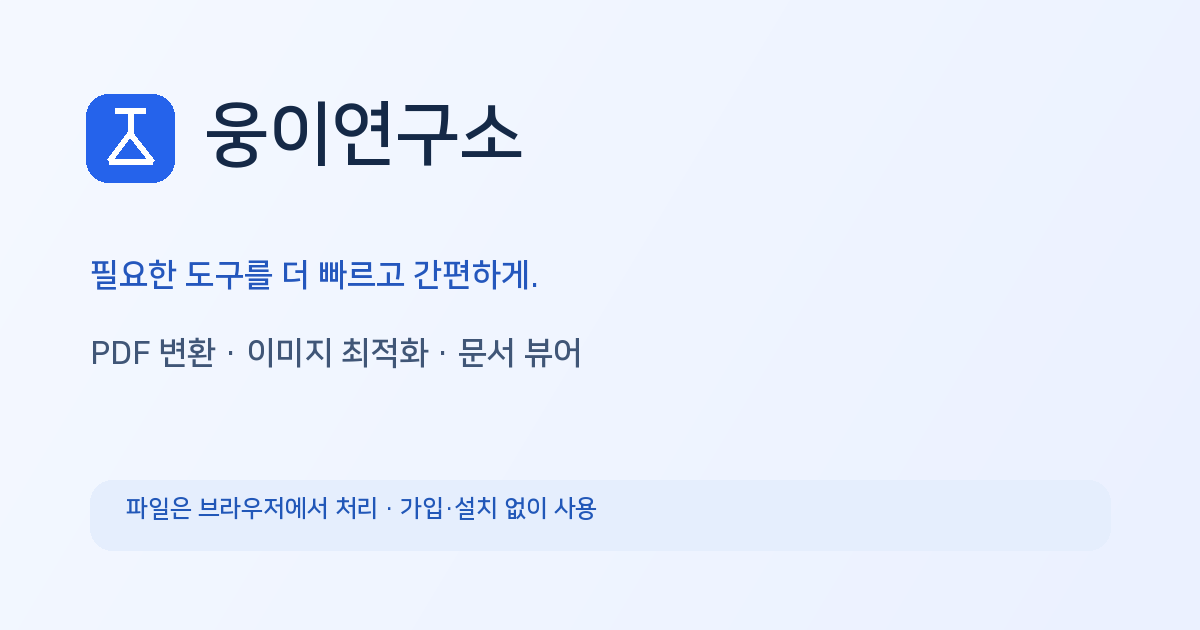
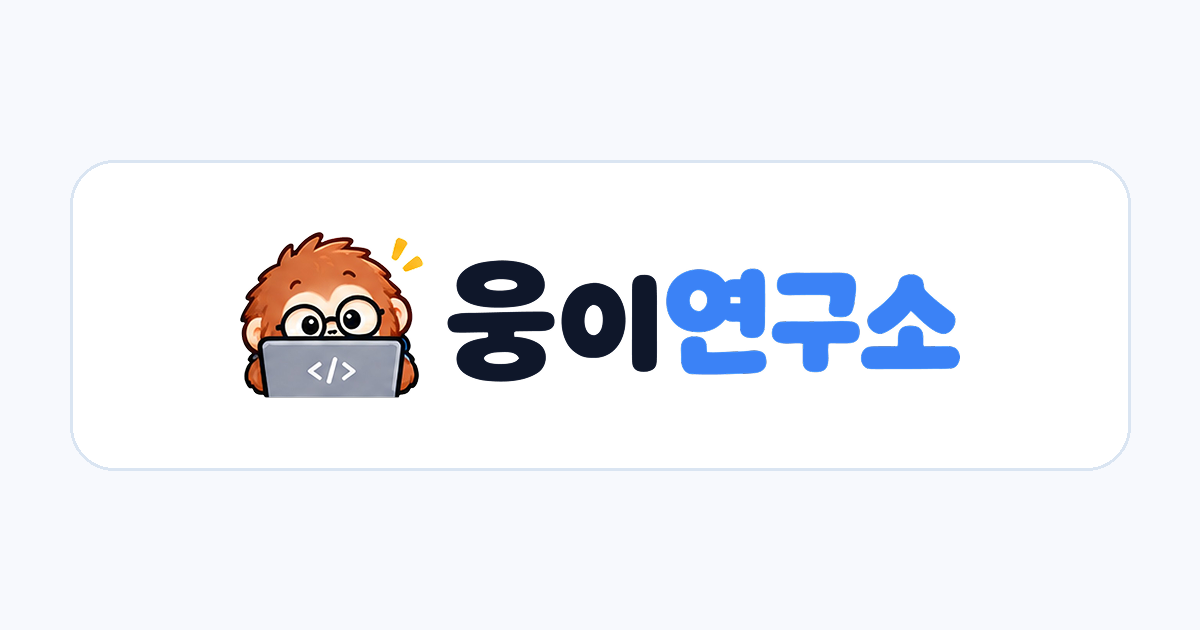
변경: 웅이연구소 로고와 공통 안내 페이지 및 검색 등록 준비

Changed region(s): [[0.0617, 0.3619, 0.8017, 0.6333], [0.0617, 0.1508, 0.4317, 0.3016], [0.0925, 0.7841, 0.4933, 0.8444]]

diff --git a/lib/guides.ts b/lib/guides.ts
@@ -9,6 +9,6 @@ export const guides:Guide[]=[
   {slug:"open-office-files",title:"Word 문서를 설치 없이 보는 방법",tool:"docx-viewer",overview:"문서 편집 프로그램이 없어도 DOCX의 본문과 기본 서식을 간단히 확인할 수 있습니다.",steps:["Word(DOCX) 뷰어에서 파일을 선택합니다.", "문단과 표, 이미지 배치를 스크롤하여 확인합니다.", "인쇄 또는 공유 전에 원본과 중요한 서식 차이가 있는지 검토합니다."],checks:["읽기 전용 화면이며 Word 문서를 직접 수정하는 기능은 제공하지 않습니다.", "특수 글꼴과 복잡한 표, 페이지 분할은 원본과 다르게 보일 수 있습니다."],troubleshooting:["문자가 깨지면 파일이 DOCX 형식인지 확인합니다.", "서식의 정확성이 중요하다면 Microsoft Word 등 원본 프로그램에서 최종 확인합니다."],tip:"읽기 전용 화면이며 Word 문서를 직접 수정하는 기능은 제공하지 않습니다."},
   {slug:"csv-korean-encoding",title:"CSV에서 한글이 깨질 때 해결하는 방법",tool:"csv-viewer",overview:"한글 CSV를 열었을 때 깨짐 문자가 보이는 경우 인코딩과 구분자를 구별해 해결합니다.",steps:["CSV 뷰어에서 파일을 추가합니다.", "한글이 깨지면 UTF-8과 CP949/EUC-KR 인코딩을 비교합니다.", "열이 합쳐지면 쉼표 또는 탭 등 구분자를 조정합니다."],checks:["전화번호나 제품 코드의 앞자리 0은 숫자 변환 시 손실될 수 있습니다.", "잘못된 인코딩으로 저장하면 원문을 복구하기 어려울 수 있으니 원본을 보존하세요."],troubleshooting:["모든 데이터가 한 열에 보이면 구분자를 먼저 확인합니다.", "엑셀에서 저장한 오래된 CSV라면 CP949 인코딩을 시도합니다."],tip:"전화번호나 제품 코드의 앞자리 0은 숫자 변환 시 손실될 수 있습니다."},
   {slug:"crop-photo",title:"이미지의 원하는 영역만 자르기",tool:"image-cropper",overview:"프로필 사진, 상세 페이지 썸네일처럼 특정 부분만 남기거나 화면 비율을 맞출 때 사용합니다.",steps:["이미지 자르기에 사진을 추가합니다.", "자유 영역 또는 1:1, 16:9 등 비율을 선택하고 영역을 조정합니다.", "미리보기에서 잘린 위치를 확인하고 파일로 저장합니다."],checks:["잘라낸 영역 밖의 픽셀은 결과에 포함되지 않습니다.", "너무 작은 영역을 크게 확대하면 흐려질 수 있습니다."],troubleshooting:["원하는 위치로 이동하지 않으면 확대 비율을 조정한 뒤 다시 드래그합니다.", "얼굴이 잘리지 않았는지 결과 미리보기를 확인합니다."],tip:"잘라낸 영역 밖의 픽셀은 결과에 포함되지 않습니다."},
-  {slug:"read-powerpoint",title:"PPTX 슬라이드 미리보는 방법",tool:"pptx-viewer",overview:"PowerPoint 프로그램이 설치되지 않았을 때 슬라이드 순서와 텍스트를 읽기 전용으로 살펴봅니다.",steps:["PowerPoint(PPTX) 뷰어에서 파일을 선택합니다.", "썸네일을 이용해 필요한 슬라이드를 찾습니다.", "차트·도형·폰트 등 중요한 요소는 원본 프로그램과 비교합니다."],checks:["애니메이션과 일부 SmartArt, 특수 효과는 표시되지 않거나 다르게 보일 수 있습니다.", "뷰어에서 확인한 화면이 PowerPoint의 인쇄 결과와 같다고 보장할 수 없습니다."],troubleshooting:["슬라이드 내용이 빠졌다면 원본 파일을 다시 확인합니다.", "PPTX 외 확장자는 지원되지 않을 수 있습니다."],tip:"애니메이션과 일부 SmartArt, 특수 효과는 표시되지 않거나 다르게 보일 수 있습니다."},
+  {slug:"read-powerpoint",title:"PPTX 슬라이드 미리보는 방법",tool:"pptx-viewer",overview:"PowerPoint 프로그램이 없어도 슬라이드 순서와 텍스트를 읽기 전용으로 살펴봅니다.",steps:["PowerPoint(PPTX) 뷰어에서 파일을 선택합니다.", "썸네일을 이용해 필요한 슬라이드를 찾습니다.", "차트·도형·폰트 등 중요한 요소는 원본 프로그램과 비교합니다."],checks:["애니메이션과 일부 SmartArt, 특수 효과는 표시되지 않거나 다르게 보일 수 있습니다.", "뷰어에서 확인한 화면이 PowerPoint의 인쇄 결과와 같다고 보장할 수 없습니다."],troubleshooting:["슬라이드 내용이 빠졌다면 원본 파일을 다시 확인합니다.", "PPTX 외 확장자는 지원되지 않을 수 있습니다."],tip:"애니메이션과 일부 SmartArt, 특수 효과는 표시되지 않거나 다르게 보일 수 있습니다."},
   {slug:"view-excel",title:"XLSX 파일과 수식 확인하기",tool:"xlsx-viewer",overview:"엑셀을 설치하지 않고 시트의 표와 저장된 계산값을 읽을 때 이용합니다.",steps:["Excel(XLSX) 뷰어에서 문서를 엽니다.", "시트를 전환하고 표의 셀과 수식을 확인합니다.", "계산 결과가 중요한 경우 원본 Excel에서 다시 계산합니다."],checks:["저장된 수식 결과가 최신 값과 다를 수 있습니다.", "매크로나 외부 데이터 연결은 실행하지 않습니다."],troubleshooting:["값이 비어 있거나 오래된 경우 원본 파일의 저장 상태를 확인합니다.", "복잡한 서식이 다르면 Excel에서 최종 검증합니다."],tip:"저장된 수식 결과가 최신 값과 다를 수 있습니다."},
 ];

diff --git a/app/(workspace)/privacy/page.tsx b/app/(workspace)/privacy/page.tsx
@@ -1,11 +1,14 @@
+import {SiteInfoBackButton} from "@/components/site-info-back-button";
+import {AppContentContainer} from "@/components/app-content-container";
 import Link from "next/link";
 export const metadata={title:"개인정보 처리방침",description:"웅이연구소 파일 처리, 브라우저 저장 데이터, 익명 사용량 집계, 쿠키와 서비스 운영 정보 안내"};
-export default function Page(){return <main className="content-page">
+export default function Page(){return <AppContentContainer as="main" className="content-page site-info-page">
+<SiteInfoBackButton/>
 <h1>개인정보 처리방침</h1><p>적용 대상: 웅이연구소(ung-lab.com). 이 문서는 현재 공개된 코드의 데이터 처리 방식을 설명하며, 광고 또는 분석 서비스가 추가되면 실제 운영 설정에 맞춰 갱신합니다.</p>
-<h2>파일 처리</h2><p>사용자가 선택한 이미지, PDF 및 문서는 브라우저 내부에서 처리하며, 해당 작업을 위해 서비스 API로 원본 파일을 전송하지 않습니다. 원본 파일의 백업과 보관은 이용자가 관리해야 합니다.</p>
+<h2>파일 처리</h2><p>사용자가 선택한 이미지, PDF 및 문서는 브라우저 내부에서 처리하며, 파일을 처리하려고 서비스 API로 원본 파일을 전송하지 않습니다. 원본 파일의 백업과 보관은 이용자가 직접 보관해야 합니다.</p>
 <h2>브라우저에 저장되는 정보</h2><p>즐겨찾기, 최근 사용한 도구, 채팅 화면 입력 기록은 브라우저 세션 저장소에 보관될 수 있습니다. 브라우저 탭이나 세션을 종료하거나 저장소를 삭제하면 해당 정보는 사라질 수 있습니다.</p>
 <h2>익명 사용량 집계</h2><p>인기 도구와 추천 질문 유형을 개선하기 위해 이용한 도구의 식별자와 집계 횟수를 Supabase 데이터베이스에 저장할 수 있습니다. 질문 원문이나 처리 대상 파일은 이 집계 API로 보내지 않습니다. 중복 집계 방지를 위해 HttpOnly SameSite=Lax 쿠키(ung-lab-visited-tools, ung-lab-counted-prompts)를 사용할 수 있습니다. 쿠키에는 도구 식별자만 포함됩니다.</p>
 <h2>외부 제공자와 기술적 접속 정보</h2><p>서비스 호스팅·보안 및 데이터베이스 제공자는 서비스 요청 처리 과정에서 IP 주소 등 통상적인 접속 정보를 취급할 수 있습니다. 이미지 배경 제거용 AI 모델 및 라이브러리 다운로드 과정에서도 외부 배포 서버와의 통신이 발생할 수 있습니다.</p>
 <h2>광고 및 동의</h2><p>현재 코드에서는 Google AdSense 광고 스크립트가 기본적으로 실행되지 않습니다. 추후 광고 기능을 활성화한다면 광고 제공자, 쿠키 사용, 지역별 동의 선택 및 거부 절차를 포함하도록 이 문서를 갱신할 예정입니다.</p>
 <h2>문의</h2><p>데이터 처리 관련 문의는 <Link href="/contact">문의 페이지</Link>를 이용하세요. 공개 GitHub 이슈에 민감한 정보나 원본 파일을 게시하지 마세요.</p>
-</main>}
+</AppContentContainer>}

diff --git a/app/layout.tsx b/app/layout.tsx
@@ -13,6 +13,25 @@ export const metadata: Metadata = {
  ...( /^ca-pub-\d{16}$/.test(process.env.ADSENSE_PUBLISHER_ID??"")
    ? {verification:{other:{"google-adsense-account":process.env.ADSENSE_PUBLISHER_ID!}}}
    : {} ),
+
+  icons: {
+    icon: [
+      {url: "/favicon.ico", sizes: "any"},
+      {url: "/favicon-32x32.png", type: "image/png", sizes: "32x32"},
+      {url: "/favicon-16x16.png", type: "image/png", sizes: "16x16"},
+    ],
+    shortcut: "/favicon.ico",
+    apple: [{url: "/apple-touch-icon.png", sizes: "180x180"}],
+  },
+  verification: {
+    google: process.env.GOOGLE_SITE_VERIFICATION?.trim() || undefined,
+    other: {
+      ...(process.env.NAVER_SITE_VERIFICATION?.trim()
+        ? {"naver-site-verification":process.env.NAVER_SITE_VERIFICATION.trim()}:{}),
+      ...(/^ca-pub-\d{16}$/.test(process.env.ADSENSE_PUBLISHER_ID??"")
+        ? {"google-adsense-account":process.env.ADSENSE_PUBLISHER_ID!}:{}),
+    },
+  },
 };
 export default function RootLayout({children}:{children:React.ReactNode}){
  return <html lang="ko" data-scroll-behavior="smooth"><body><header className="site-header"><div className="site-width head-row"><Link href="/" className="logo" aria-label="웅이연구소 홈"><span className="logo-icon"><FlaskConical size={21}/></span><span>웅이연구소<small>UNG LAB</small></span></Link><nav aria-label="주 메뉴"><Link href="/tools">전체 도구</Link><Link href="/guides">가이드</Link><Link href="/about">소개</Link></nav></div></header>{children}<footer className="site-footer"><div className="site-width foot-grid"><div><div className="foot-brand"><FlaskConical size={20}/> 웅이연구소</div><p>필요한 작업을 더 빠르고 간편하게.<br/>사용자 파일은 브라우저 안에서 처리합니다.</p><div className="foot-safe"><ShieldCheck size={15}/> 서버에 원본 파일을 업로드하지 않아요</div></div><div><h3>웅이연구소</h3><Link href="/about">서비스 소개</Link><Link href="/guides">사용 가이드</Link><Link href="/contact">문의</Link></div><div><h3>정책 및 개발</h3><Link href="/privacy">개인정보 처리방침</Link><Link href="/terms">이용약관</Link><a href="https://github.com/ungveloper/ung-lab-web" rel="noreferrer" target="_blank"><Github size={14}/> GitHub</a></div></div><div className="site-width foot-bottom">© 2026 웅이연구소 · ung-lab.com</div></footer></body></html>;

diff --git a/app/(workspace)/about/page.tsx b/app/(workspace)/about/page.tsx
@@ -1,10 +1,13 @@
+import {SiteInfoBackButton} from "@/components/site-info-back-button";
+import {AppContentContainer} from "@/components/app-content-container";
 import Link from "next/link";
 export const metadata={title:"서비스 소개",description:"웅이연구소가 제공하는 무료 PDF·이미지·문서 온라인 도구와 운영 원칙을 소개합니다."};
-export default function Page(){return <main className="content-page">
+export default function Page(){return <AppContentContainer as="main" className="content-page site-info-page">
+<SiteInfoBackButton/>
 <h1>웅이연구소 소개</h1>
 <p>웅이연구소는 PDF, 이미지, 문서 파일을 다룰 때 반복되는 작업을 브라우저에서 수행할 수 있도록 만든 온라인 도구 모음입니다. 가입 없이 필요한 도구를 찾아 파일을 처리할 수 있도록 설계했습니다.</p>
 <h2>무엇을 할 수 있나요?</h2><p>PDF 페이지 이미지 변환과 이미지 PDF 합치기, 사진 압축·크기 조절·형식 변환·자르기, 인물 중심 배경 제거, Office 문서 및 CSV 읽기 전용 확인 기능을 제공합니다. 각 기능의 실제 지원 범위는 <Link href="/tools">모든 기능 보기</Link>에서 확인할 수 있습니다.</p>
 <h2>파일은 어떻게 처리하나요?</h2><p>선택한 원본 파일은 브라우저의 처리 기능으로 다룹니다. 변환을 위해 서비스 서버로 원본 파일을 업로드하는 방식은 사용하지 않습니다. 다만 AI 배경 제거는 모델 파일을 외부 배포 서버에서 내려받을 수 있습니다.</p>
 <h2>정확성과 한계</h2><p>기기 성능, 파일 형식, 브라우저 지원 범위에 따라 결과가 다를 수 있습니다. 문서 뷰어는 읽기 전용이며 일부 고급 서식이나 수식 결과를 원본과 똑같이 재현하지 못할 수 있습니다. 중요한 결과는 원본 프로그램에서 다시 확인하세요.</p>
 <h2>도움받기</h2><p><Link href="/guides">사용 가이드</Link>에서 각 도구의 순서와 문제 해결 방법을 확인하거나 <Link href="/contact">문의 페이지</Link>에서 문제를 제보할 수 있습니다.</p>
-</main>}
+</AppContentContainer>}

diff --git a/app/(workspace)/terms/page.tsx b/app/(workspace)/terms/page.tsx
@@ -1,9 +1,12 @@
+import {SiteInfoBackButton} from "@/components/site-info-back-button";
+import {AppContentContainer} from "@/components/app-content-container";
 import Link from "next/link";
 export const metadata={title:"이용약관",description:"웅이연구소 온라인 파일 처리 도구의 이용 범위, 책임 및 제한 사항"};
-export default function Page(){return <main className="content-page">
+export default function Page(){return <AppContentContainer as="main" className="content-page site-info-page">
+<SiteInfoBackButton/>
 <h1>이용약관</h1><p>웅이연구소는 PDF·이미지·문서 관련 온라인 도구를 제공합니다. 사용자는 해당 파일을 처리하고 사용할 적법한 권한을 보유해야 합니다.</p>
 <h2>서비스 이용</h2><p>지원 형식과 가능한 작업은 각 도구에 표시합니다. 사용자는 필요한 결과를 저장하기 전에 미리보기와 내용을 확인해야 합니다. 이 서비스는 일반적인 파일 작업을 돕기 위한 것으로, 중요한 문서의 법적·금전적 정확성을 보증하지 않습니다.</p>
 <h2>기술적 한계</h2><p>브라우저별 호환성, 기기 메모리, 문서 서식, AI 모델 특성 때문에 결과가 달라질 수 있습니다. 일부 파일이나 기능은 처리되지 않을 수 있습니다.</p>
 <h2>변경과 중단</h2><p>보안·성능·호환성 개선을 위해 기능 및 제한 사항을 조정할 수 있습니다. 서비스 이용 중 오류가 발생하면 <Link href="/contact">문의 페이지</Link>에서 알려주세요.</p>
 <h2>개인정보</h2><p>파일과 이용 기록의 취급은 <Link href="/privacy">개인정보 처리방침</Link>에 안내합니다.</p>
-</main>}
+</AppContentContainer>}

diff --git a/components/app-sidebar.tsx b/components/app-sidebar.tsx
@@ -1,4 +1,5 @@
 "use client";
+import Image from "next/image";
 
 import Link from "next/link";
 import { BookOpen, Clock3, FlaskConical, Menu, MessageCirclePlus, PanelLeftClose, PanelLeftOpen, Star, X } from "lucide-react";
@@ -37,7 +38,7 @@ export function AppSidebar({ mode, catalog = tools, activeToolSlug, mobileOpen, 
     {mobileOpen && <button type="button" aria-label="사이드바 닫기" className="chat-sidebar-shade" onClick={close}/>}
     <aside className={`chat-sidebar${mobileOpen ? " is-open" : ""}`} aria-label="도구 탐색 사이드바">
       <div className="chat-sidebar-top">
-        <Link href="/" className="chat-brand" onClick={() => { close(); onNewChat?.(); }}><span className="chat-brand-icon"><FlaskConical size={21}/></span><strong>웅이연구소</strong></Link>
+        <Link href="/" className="chat-brand" onClick={() => { close(); onNewChat?.(); }}><span className="chat-brand-icon"><FlaskConical size={21}/></span><strong><Image src="/images/brand/logo.png" alt="웅이연구소" width={720} height={166} className="brand-wordmark" priority/></strong></Link>
         <button type="button" aria-label={collapsed ? "사이드바 펼치기" : "사이드바 접기"} className="chat-sidebar-collapse" onClick={() => setCollapsed(!collapsed)}>{collapsed ? <PanelLeftOpen size={18}/> : <PanelLeftClose size={18}/>}</button>
         <button type="button" aria-label="사이드바 닫기" className="chat-mobile-close" onClick={close}><X size={19}/></button>
       </div>

diff --git a/app/(workspace)/contact/page.tsx b/app/(workspace)/contact/page.tsx
@@ -1,7 +1,10 @@
+import {SiteInfoBackButton} from "@/components/site-info-back-button";
+import {AppContentContainer} from "@/components/app-content-container";
 export const metadata={title:"문의 및 오류 신고",description:"웅이연구소 PDF·이미지·문서 도구 사용 중 발생한 오류와 문의 접수 안내"};
-export default function Page(){return <main className="content-page">
+export default function Page(){return <AppContentContainer as="main" className="content-page site-info-page">
+<SiteInfoBackButton/>
 <h1>문의 및 오류 신고</h1><p>도구에서 오류를 발견했거나 사용 방법에 대한 도움이 필요하다면 공개된 GitHub 이슈를 통해 제보할 수 있습니다.</p>
 <p><a href="https://github.com/ungveloper/ung-lab-web/issues" target="_blank" rel="noopener noreferrer">GitHub Issues에서 문의하기 →</a></p>
 <h2>제보하면 도움이 되는 정보</h2><p>사용한 도구명, 브라우저 및 운영체제, 오류 메시지와 재현 순서를 알려주세요. 원본 파일이나 계정 비밀번호, 주민등록번호 같은 개인정보는 공개 이슈에 올리지 마세요.</p>
 <h2>접수 방식</h2><p>현재 별도의 이메일 상담 창구는 제공하지 않습니다. GitHub 이슈는 공개 공간이며, 신고 내용을 삭제하거나 비공개로 보호하기 어려울 수 있습니다.</p>
-</main>}
+</AppContentContainer>}

diff --git a/app/chat.css b/app/chat.css
@@ -179,3 +179,14 @@ body:has(.guides-app-shell) .site-header,body:has(.guides-app-shell) .site-foote
 .guide-extra ul{padding-left:23px;margin:0 0 14px}
 .guide-extra li+li{margin-top:8px}
 .guide-tile-summary{font-size:13px;color:#66768c;line-height:1.55}
+
+/* One logo asset, always at its supplied 720:166 aspect ratio. */
+.brand-wordmark{display:block;width:clamp(140px,11.5vw,176px);height:auto;aspect-ratio:720/166;max-width:100%;object-fit:contain}
+/* The shared workspace layout remains mounted as the legal pages change. */
+.site-info-page{padding-block:28px 64px;min-height:100%;line-height:1.85}
+.site-info-page h1{font-size:clamp(25px,3vw,32px);line-height:1.35;letter-spacing:-.025em}
+.site-info-page h2{font-size:19px;line-height:1.5;margin-top:30px}
+.site-info-page p{line-height:1.85;overflow-wrap:anywhere}
+.site-info-back{display:inline-flex;align-items:center;gap:8px;border:1px solid #dbe3ed;background:transparent;border-radius:10px;padding:9px 13px;min-height:40px;font-size:14px;font-weight:650;color:inherit;cursor:pointer;margin-bottom:20px}
+.site-info-back:hover,.site-info-back:focus-visible{border-color:#3b82f6;color:#2563eb}
+@media(max-width:720px){.site-info-page{padding-block:18px 48px}.brand-wordmark{width:148px}}

diff --git a/app/manifest.ts b/app/manifest.ts
@@ -1,1 +1,7 @@
-import type {MetadataRoute} from "next";export default function manifest():MetadataRoute.Manifest{return {name:"웅이연구소",short_name:"웅이연구소",description:"PDF·이미지·문서 무료 온라인 도구",start_url:"/",display:"browser",background_color:"#ffffff",theme_color:"#2563eb"}}
+import type {MetadataRoute} from "next";
+export default function manifest():MetadataRoute.Manifest{
+  return {name:"웅이연구소",short_name:"웅이연구소",description:"PDF, 이미지, 문서 작업을 간편하게 처리하는 웹 도구 모음",start_url:"/",scope:"/",display:"standalone",background_color:"#ffffff",theme_color:"#287bfa",icons:[
+    {src:"/android-chrome-192x192.png",sizes:"192x192",type:"image/png"},
+    {src:"/android-chrome-512x512.png",sizes:"512x512",type:"image/png"},
+  ]};
+}

diff --git a/components/site-info-back-button.tsx b/components/site-info-back-button.tsx
@@ -1,0 +1,17 @@
+"use client";
+import {useRouter} from "next/navigation";
+import {ArrowLeft} from "lucide-react";
+
+/** Real browser back for internal navigation; safe /tools fallback for direct visits. */
+export function SiteInfoBackButton(){
+  const router=useRouter();
+  function goBack(){
+    if(typeof window==="undefined")return;
+    const sameOrigin=document.referrer?new URL(document.referrer).origin===window.location.origin:false;
+    if(sameOrigin&&window.history.length>1){router.back();return;}
+    router.push("/tools");
+  }
+  return <button type="button" className="site-info-back" onClick={goBack} aria-label="이전 페이지로 돌아가기">
+    <ArrowLeft size={17} aria-hidden="true"/> 뒤로가기
+  </button>;
+}

diff --git a/scripts/audit-korean-copy.py b/scripts/audit-korean-copy.py
@@ -1,0 +1,32 @@
+#!/usr/bin/env python3
+"""Conservative, read-only Korean content audit inspired by im-not-ai.
+Do not auto-rewrite quotes, legal text, metrics, or product behavior.
+"""
+from pathlib import Path
+import re
+root=Path(__file__).resolve().parent.parent
+folders=['app','components','lib']
+patterns={
+ '번역투(에 있어서)':r'에 있어서',
+ '번역투(를 통해)':r'를 통해',
+ '중복 수식(매우 중요한)':r'매우 중요한',
+ 'AI 관용구(시사)':r'시사하는 바가 크다',
+ 'AI 관용구(결론적으로)':r'결론적으로',
+ '추상적 표현(혁신적인)':r'혁신적인',
+ '중복 피동':r'되어진다|되어지는',
+ '형식명사(할 필요가 있다)':r'할 필요가 있다',
+}
+allcount=0;rows=[]
+for folder in folders:
+  for f in (root/folder).rglob('*'):
+    if f.suffix not in {'.tsx','.ts','.mjs','.md'} or f.name.endswith('.test.mjs'):continue
+    try:text=f.read_text(encoding='utf-8')
+    except (OSError,UnicodeDecodeError):continue
+    allcount+=1
+    for kind,pattern in patterns.items():
+      for match in list(re.finditer(pattern,text))[:20]:
+        ln=text.count('\n',0,match.start())+1
+        rows.append((str(f.relative_to(root)),ln,kind))
+print(f'한국어 표현 점검: {allcount}개 소스 파일, 검토할 문구 {len(rows)}곳')
+for path,line,kind in rows[:25]:print(f'  {path}:{line}  {kind}')
+if len(rows)>25:print(f'  외 {len(rows)-25}곳. 법률·정책 문서는 사람이 원문과 대조하세요.')

diff --git a/docs/public-launch-checklist.md b/docs/public-launch-checklist.md
@@ -1,0 +1,24 @@
+# 웅이연구소 최종 배포·검색엔진 등록 체크리스트
+
+**코드 배포와 도메인 연결은 별개입니다.** GitHub push만으로 ung-lab.com의 DNS가 변경되거나 검색엔진에 소유권이 확인되지 않습니다.
+
+## 환경 변수 (호스팅 서비스의 Production 환경에 설정)
+- `NEXT_PUBLIC_LAUNCH_READY=true` — 실제 사이트가 정상 공개될 때만 지정. false/미설정은 기존 noindex 유지.
+- `GOOGLE_SITE_VERIFICATION=...` — Search Console URL 접두어 속성에서 제공한 `google-site-verification` **content 값**만 입력.
+- `NAVER_SITE_VERIFICATION=...` — Naver Search Advisor에서 제공한 `naver-site-verification` **content 값**만 입력.
+- 기존 Supabase/AdSense 변수는 변경하지 않습니다.
+
+Production 설정 후 **재배포**해야 Next가 빌드한 `<head>` 메타태그에 반영될 수 있습니다. 계정 비밀키는 브라우저에 노출하지 마세요.
+
+## 실서버 확인
+1. 최신 커밋이 실제 배포 서비스에 반영됐는지, HTTPS와 www/non-www 리다이렉트가 정상인지 확인합니다.
+2. `https://ung-lab.com/`, `/tools`, `/guides`, `/about`, `/contact`, `/privacy`, `/terms`와 실제 11개 도구·가이드 URL의 응답과 내부 링크를 확인합니다.
+3. `https://ung-lab.com/robots.txt`가 검색 봇을 허용하고 `https://ung-lab.com/sitemap.xml`에 완전한 HTTPS canonical URL이 있는지 확인합니다. `noindex`가 남아 있는지 점검합니다.
+4. 사이트 소스 보기(view-source:https://ung-lab.com/)에서 `<meta name="google-site-verification" ...>` 및 `<meta name="naver-site-verification" ...>`가 head에 있는지 확인합니다. **React로 나중에 추가한 태그는 Naver 검증이 안 될 수 있습니다.**
+5. Google Search Console과 Naver Search Advisor에서 사이트 소유 확인 후 `https://ung-lab.com/sitemap.xml` 제출, 핵심 페이지 수집 요청과 색인 현황 확인을 진행합니다.
+6. AdSense는 소유권·콘텐츠·정책·광고 동의 관련 운영 점검을 마친 뒤 신청합니다.
+
+## 확인 스크립트
+`bash scripts/check-live-seo.sh https://ung-lab.com`
+
+공식 문서: https://developers.google.com/search/docs/monitor-debug/search-console-start · https://searchadvisor.naver.com/guide/faq-start-register
